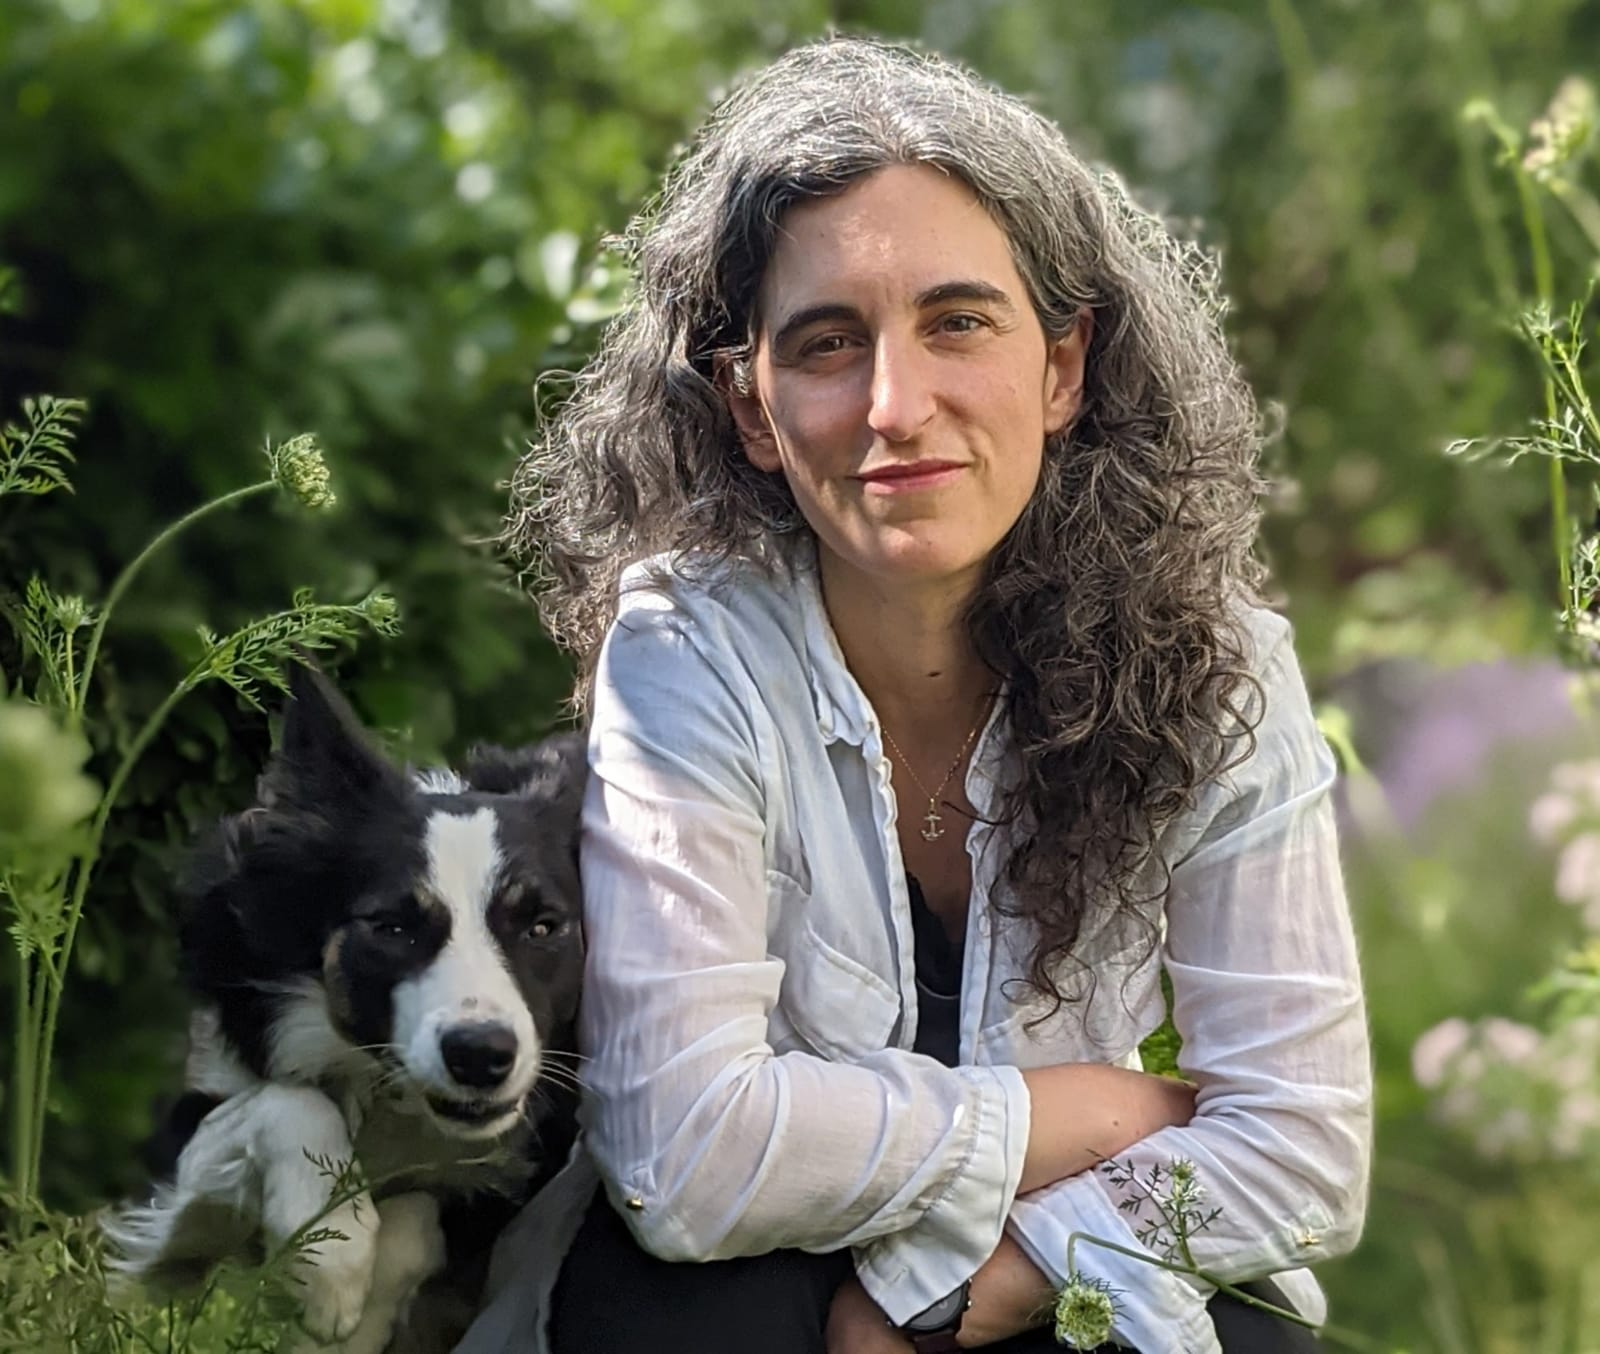
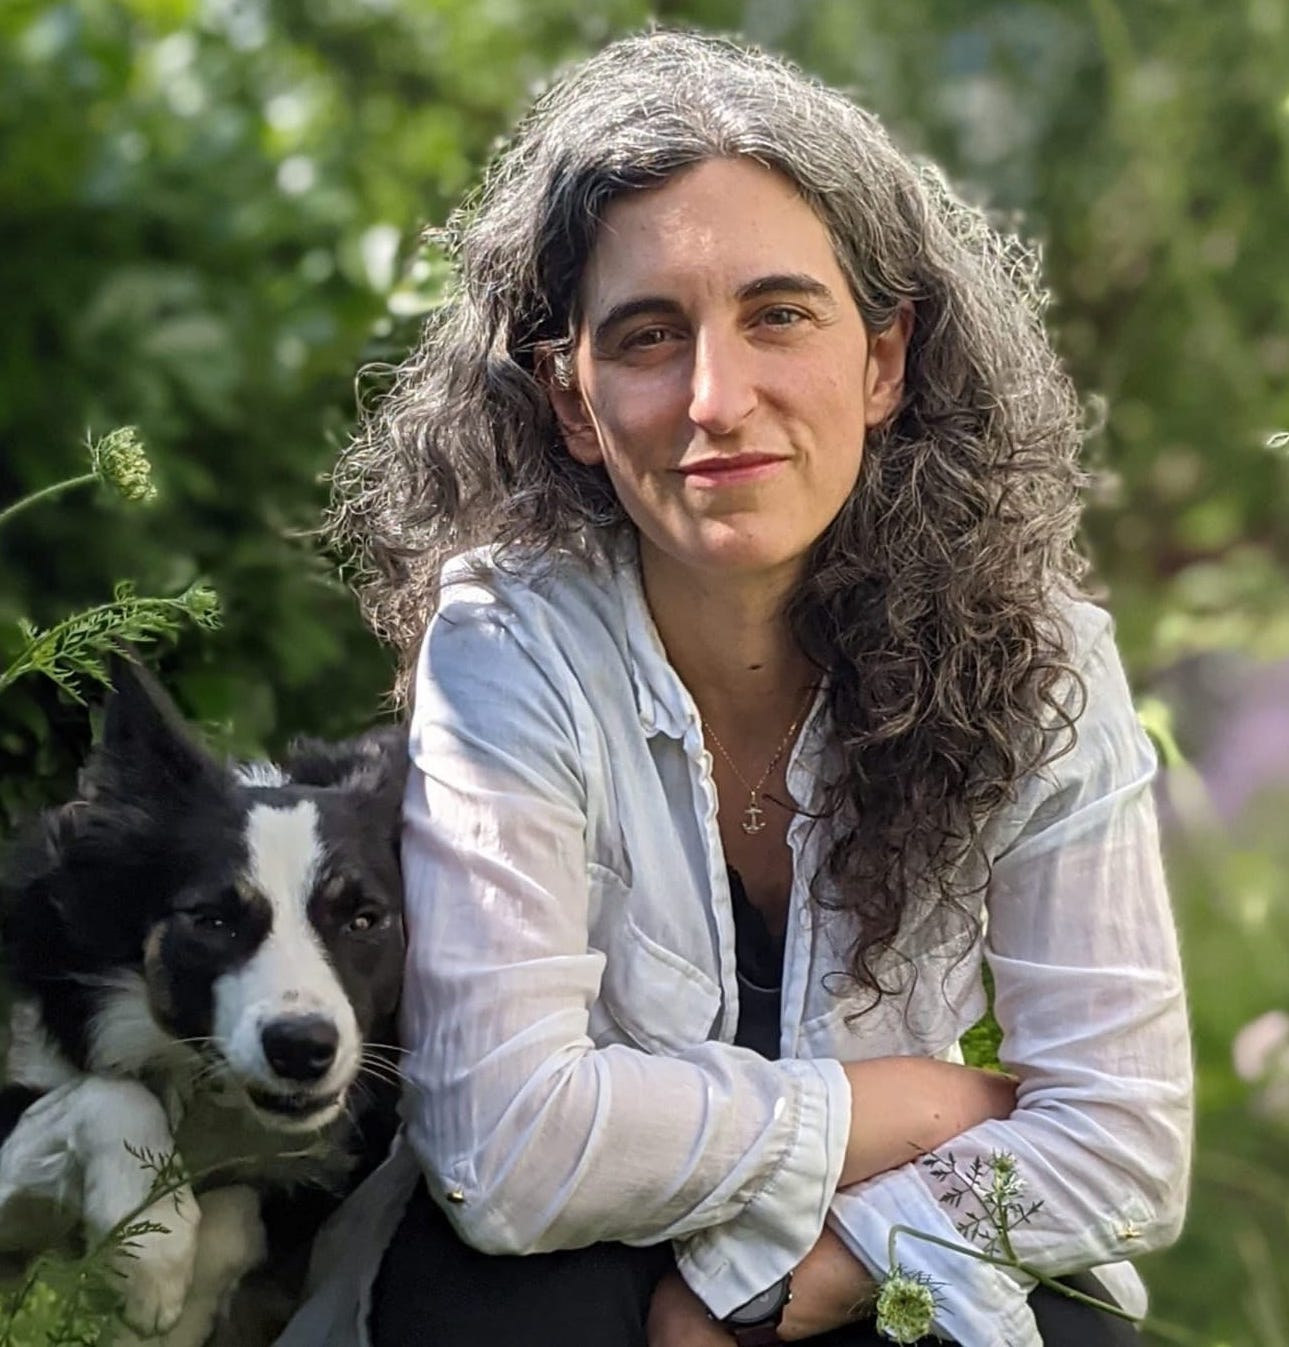
update speakers

diff --git a/index.html b/index.html
@@ -163,10 +163,10 @@
                     <div class="col-md-2">
                         <figure class="thumbnail">
                             <a class="img-circle" href="#" data-toggle="modal" data-target="#ccomito">
-                                <img src="img/speakers/ccomito.jpeg" class="img-responsive" alt="Claudia Comito" />
+                                <img src="img/speakers/ccomito.jpeg?v2" class="img-responsive" alt="Dr. Claudia Comito" />
                             </a>
                             <figcaption class="caption text-center">
-                                Claudia Comito
+                                Dr. Claudia Comito
                             </figcaption>
                         </figure>
                     </div>
@@ -241,6 +241,10 @@
                     <div class="session">
                         <h2>Python: The African Community and Leadership</h2>
                         <h3><a href="#" data-toggle="modal" data-target="#adogbe">Abigail Dogbe</a> <span>lead of PyLadies in Ghana</span></h3>
+                    </div>
+                    <div class="session">
+                        <h2>Python release process</h2>
+                        <h3><a href="#" data-toggle="modal" data-target="#llanga">Łukasz Langa</a> <span>Python core developer</span></h3>
                     </div>
                     <div class="session">
                         <h2>Knowledge graph data modelling with TerminusDB</h2>
@@ -490,12 +494,12 @@
                 <div class="modal-content">
                     <div class="modal-header">
                         <button type="button" class="close" data-dismiss="modal" aria-label="Close"><span aria-hidden="true">&times;</span></button>
-                        <h4 class="modal-title">Claudia Comito</h4>
+                        <h4 class="modal-title">Dr. Claudia Comito</h4>
                     </div>
                     <div class="modal-body">
                         <div class="media">
                             <div class="media-left">
-                                <img src="img/speakers/ccomito.jpeg" alt="Claudia Comito" />
+                                <img src="img/speakers/ccomito.jpeg?v2" alt="Dr. Claudia Comito" />
                                 <h5>Speaker</h5>
                                 <ul class="social-links list-inline">
                                     <li>
@@ -506,6 +510,45 @@
                             </div>
                             <div class="media-body">
                                 <p>Claudia Comito got her PhD in astrophysics in 2003, bounced around from high-altitude telescopes to space missions for 15+years, and finally settled at the Jülich Supercomputing Center in 2018. She co-develops the Helmholtz Analytics Framework (Heat) library, and supports scientists coming to grips with their data having grown "too big to numpy".</p>
+                            </div>
+                        </div>
+                    </div>
+                </div>
+            </div>
+        </div>
+
+        <div class="modal fade" id="llanga">
+            <div class="modal-dialog">
+                <div class="modal-content">
+                    <div class="modal-header">
+                        <button type="button" class="close" data-dismiss="modal" aria-label="Close"><span aria-hidden="true">&times;</span></button>
+                        <h4 class="modal-title">Łukasz Langa - Python release process</h4>
+                    </div>
+                    <div class="modal-body">
+                        <div class="media">
+                            <div class="media-left">
+                                <img src="img/speakers/llanga.jpeg" alt="Dr. Claudia Comito" />
+                                <h5>Speaker</h5>
+                                <ul class="social-links list-inline">
+                                    <li>
+                                        <a href="https://github.com/ambv"><i class="fa fa-github"></i>
+                                    </a>
+                                    </li>
+                                    <li>
+                                        <a href="https://twitter.com/llanga"><i class="fa fa-twitter"></i>
+                                    </a>
+                                    </li>
+                                    <li>
+                                        <a href="https://lukasz.langa.pl/"><i class="fa fa-laptop"></i>
+                                    </a>
+                                    </li>
+                                </ul>
+                            </div>
+                            <div class="media-body">
+                                <p>I'm equally interested in music and software engineering, as a classically-trained pianist and a long-time contributor to the Python programming language.</p>
+                                <p>I build software for musical instruments. I make music as RPLKTR. I'm also the Release Manager for Python 3.8 and 3.9. I created the popular code auto-formatter Black.</p>
+                                <p>Ex-Facebook. Currently based in Poznań.</p>
+                                <h6>Python release process</h6>
                             </div>
                         </div>
                     </div>
